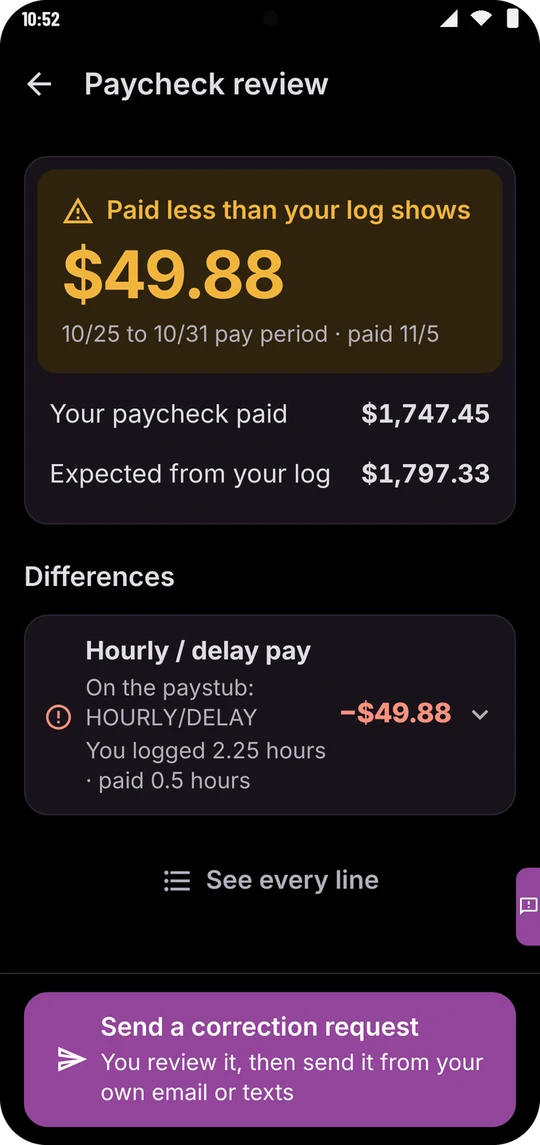
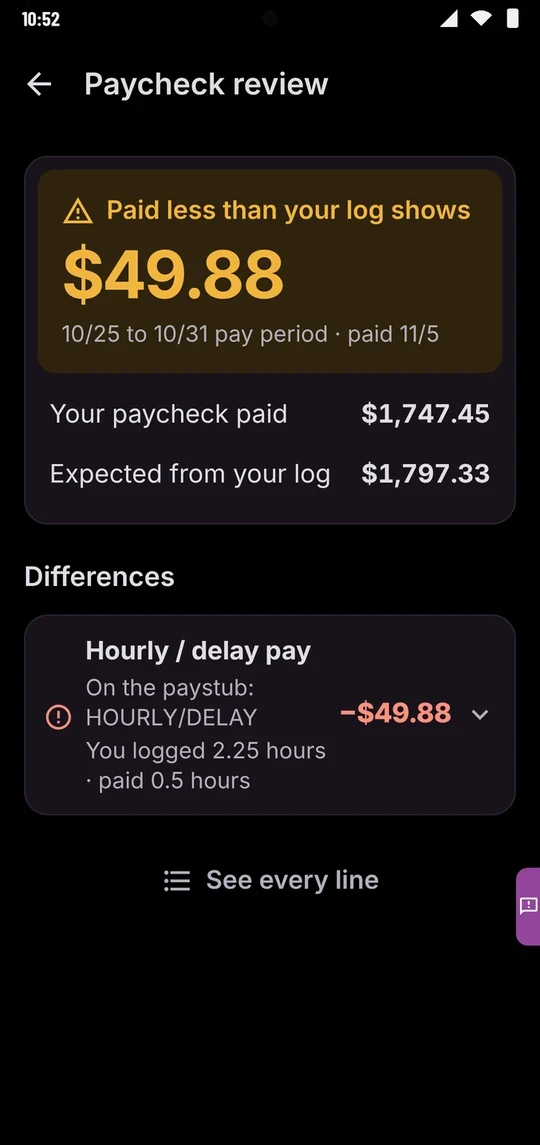
Home page stops showing the payroll note, which is off for launch (outside audit OA-002)
- The third app picture ("A polite note, ready to send") is gone in every language, and its words.
- The two Paycheck review pictures lose the "Send a correction request" bar. That bar is not in the
  app while the note is off (the screen has no bottom bar then), so the pictures now match the app.
- The use case video is held off the page (VIDEO_HELD in tools/home/build.py): it shows the note and
  Copy for payroll. It comes back with a new cut or when the note is turned on.
- llms.txt no longer lists the note to payroll.

Claude-Session: https://claude.ai/code/session_01C3zU6khZT3Zie1J1Kt7Tg1

Changed region(s): [[0.0, 0.8559, 1.0, 1.0], [0.9481, 0.0, 1.0, 0.0306], [0.0, 0.0, 0.0593, 0.0306]]

diff --git a/index.html b/index.html
@@ -2,7 +2,7 @@
 <html lang="en" dir="ltr">
 <head>
 <meta charset="utf-8">
-<meta http-equiv="Content-Security-Policy" content="default-src 'none'; style-src 'self' 'unsafe-inline' https://fonts.googleapis.com; font-src https://fonts.gstatic.com; img-src 'self' data:; media-src 'self'; manifest-src 'self'; script-src 'self'; base-uri 'none'; form-action https://us-central1-trucker-pay-protect.cloudfunctions.net">
+<meta http-equiv="Content-Security-Policy" content="default-src 'none'; style-src 'self' 'unsafe-inline' https://fonts.googleapis.com; font-src https://fonts.gstatic.com; img-src 'self' data:; manifest-src 'self'; script-src 'self'; base-uri 'none'; form-action https://us-central1-trucker-pay-protect.cloudfunctions.net">
 <meta name="viewport" content="width=device-width,initial-scale=1,viewport-fit=cover">
 <title>Trucker Pay Protector: Check every paycheck against your own pay plan</title>
 <meta name="description" content="An Android app that checks each paystub or settlement against your own pay papers. For company drivers and owner-operators. Built by a working long-haul truck driver.">
@@ -85,14 +85,8 @@
 </header>
 
 <main id="main">
-<section class="video" aria-labelledby="video-h"><div class="in">
-  <p class="kicker">See it work</p><h2 id="video-h">Watch one paycheck get checked.</h2>
-  <div class="vframe"><video controls playsinline preload="none" width="1920" height="1080" poster="/assets/video/use-case-en.jpg" aria-labelledby="video-h"><source src="/assets/video/use-case-en.mp4" type="video/mp4"></video><button type="button" class="vsound" hidden>Tap for sound</button></div>
-  <p class="vnote">About 50 seconds, with an AI voice. Data is for display purposes only. Not a real driver. Use the app only when you&#x27;re safely stopped, never while driving.</p>
-  <p class="vnote"><span class="tag">Paid plan</span></p>
-</div></section>
 
-<section id="how"><div class="in">
+<section id="how" class="fade"><div class="in">
   <p class="kicker">How it works</p><h2>Four easy steps.</h2>
   <ol class="steps">
     <li><span class="n" aria-hidden="true">1</span><h3>Add your papers</h3><p>Show the app your pay papers and one recent paystub.</p></li>
@@ -112,10 +106,6 @@
     <figure class="shot">
       <div class="bezel"><img src="/assets/app/why-night.webp" alt="The app&#x27;s Why screen. It shows the math for one pay line and the words from the pay plan." width="540" height="1145" loading="lazy"></div>
       <figcaption><b>Tap &quot;Why?&quot; on a line.</b><span>See the math, and the line on your papers when you add them.</span><span class="tag">Paid plan</span></figcaption>
-    </figure>
-    <figure class="shot">
-      <div class="bezel"><img src="/assets/app/note-night.webp" alt="The app&#x27;s Pay question screen with a note to payroll ready to send." width="540" height="1145" loading="lazy"></div>
-      <figcaption><b>A polite note, ready to send.</b><span>You read it. You send it.</span><span class="tag">Paid plan</span></figcaption>
     </figure>
   </div>
 </div></section>

diff --git a/pa/index.html b/pa/index.html
@@ -107,10 +107,6 @@
       <div class="bezel"><img src="/assets/app/why-night.webp" alt="ਐਪ ਦੀ ਸਕਰੀਨ, ਅੰਗਰੇਜ਼ੀ ਵਿੱਚ: &quot;ਕਿਉਂ?&quot;। ਇੱਕ ਪੇਅ ਲਾਈਨ ਦਾ ਹਿਸਾਬ ਅਤੇ ਪੇਅ ਪਲੈਨ ਦੇ ਸ਼ਬਦ ਦਿਖਾਉਂਦੀ ਹੈ।" width="540" height="1145" loading="lazy"></div>
       <figcaption><b>ਕਿਸੇ ਲਾਈਨ ਤੇ &quot;ਕਿਉਂ?&quot; ਦਬਾਓ।</b><span>ਹਿਸਾਬ ਦੇਖੋ, ਅਤੇ ਕਾਗਜ਼ ਪਾਉਣ ਤੇ ਆਪਣੇ ਕਾਗਜ਼ਾਂ ਦੀ ਲਾਈਨ ਵੀ।</span><span class="tag">ਸਬਸਕ੍ਰਿਪਸ਼ਨ ਨਾਲ</span></figcaption>
     </figure>
-    <figure class="shot">
-      <div class="bezel"><img src="/assets/app/note-night.webp" alt="ਐਪ ਦੀ ਸਕਰੀਨ, ਅੰਗਰੇਜ਼ੀ ਵਿੱਚ: ਪੇਰੋਲ ਲਈ ਇੱਕ ਨੋਟ, ਭੇਜਣ ਲਈ ਤਿਆਰ।" width="540" height="1145" loading="lazy"></div>
-      <figcaption><b>ਨਿਮਰ ਨੋਟ, ਭੇਜਣ ਲਈ ਤਿਆਰ।</b><span>ਤੁਸੀਂ ਪੜ੍ਹਦੇ ਹੋ। ਤੁਸੀਂ ਭੇਜਦੇ ਹੋ।</span><span class="tag">ਸਬਸਕ੍ਰਿਪਸ਼ਨ ਨਾਲ</span></figcaption>
-    </figure>
   </div>
 </div></section>
 

diff --git a/ru/index.html b/ru/index.html
@@ -107,10 +107,6 @@
       <div class="bezel"><img src="/assets/app/why-night.webp" alt="Экран приложения, на английском: «Почему?». Показывает расчёт по одной строке оплаты и слова из плана оплаты." width="540" height="1145" loading="lazy"></div>
       <figcaption><b>Нажмите «Почему?» на строке.</b><span>Увидите расчёт и строку из ваших документов, когда вы их добавите.</span><span class="tag">По подписке</span></figcaption>
     </figure>
-    <figure class="shot">
-      <div class="bezel"><img src="/assets/app/note-night.webp" alt="Экран приложения, на английском: записка в бухгалтерию, готовая к отправке." width="540" height="1145" loading="lazy"></div>
-      <figcaption><b>Вежливая записка, готовая к отправке.</b><span>Вы читаете. Вы отправляете.</span><span class="tag">По подписке</span></figcaption>
-    </figure>
   </div>
 </div></section>
 

diff --git a/ar/index.html b/ar/index.html
@@ -107,10 +107,6 @@
       <div class="bezel"><img src="/assets/app/why-night.webp" alt="شاشة التطبيق بالإنجليزية: «لماذا؟». تعرض حساب سطر أجر واحد وكلمات خطة الأجر." width="540" height="1145" loading="lazy"></div>
       <figcaption><b>اضغط «لماذا؟» على سطر.</b><span>شاهد الحساب، والسطر في أوراقك عندما تضيفها.</span><span class="tag">ضمن الاشتراك</span></figcaption>
     </figure>
-    <figure class="shot">
-      <div class="bezel"><img src="/assets/app/note-night.webp" alt="شاشة التطبيق بالإنجليزية: رسالة إلى قسم الرواتب جاهزة للإرسال." width="540" height="1145" loading="lazy"></div>
-      <figcaption><b>رسالة مهذبة جاهزة للإرسال.</b><span>أنت تقرؤها. أنت ترسلها.</span><span class="tag">ضمن الاشتراك</span></figcaption>
-    </figure>
   </div>
 </div></section>
 

diff --git a/es/index.html b/es/index.html
@@ -107,10 +107,6 @@
       <div class="bezel"><img src="/assets/app/why-night.webp" alt="Pantalla de la app, en inglés: &quot;¿Por qué?&quot;. Muestra la cuenta de una línea de pago y las palabras del plan de pago." width="540" height="1145" loading="lazy"></div>
       <figcaption><b>Toque &quot;¿Por qué?&quot; en una línea.</b><span>Vea la cuenta, y la línea en sus papeles cuando los agregue.</span><span class="tag">Con suscripción</span></figcaption>
     </figure>
-    <figure class="shot">
-      <div class="bezel"><img src="/assets/app/note-night.webp" alt="Pantalla de la app, en inglés: una nota para nómina, lista para enviar." width="540" height="1145" loading="lazy"></div>
-      <figcaption><b>Una nota cortés, lista para enviar.</b><span>Usted la lee. Usted la envía.</span><span class="tag">Con suscripción</span></figcaption>
-    </figure>
   </div>
 </div></section>
 

diff --git a/tools/home/template.html b/tools/home/template.html
@@ -98,10 +98,6 @@
       <div class="bezel"><img src="/assets/app/why-night.webp" alt="{{shot2_alt}}" width="540" height="1145" loading="lazy"></div>
       <figcaption><b>{{shot2_h}}</b><span>{{shot2_p}}</span><span class="tag">{{paid_tag}}</span></figcaption>
     </figure>
-    <figure class="shot">
-      <div class="bezel"><img src="/assets/app/note-night.webp" alt="{{shot3_alt}}" width="540" height="1145" loading="lazy"></div>
-      <figcaption><b>{{shot3_h}}</b><span>{{shot3_p}}</span><span class="tag">{{paid_tag}}</span></figcaption>
-    </figure>
   </div>
 </div></section>
 

diff --git a/tools/home/build.py b/tools/home/build.py
@@ -42,8 +42,16 @@ PLAY_ICON = ('<svg aria-hidden="true" width="26" height="28" viewBox="0 0 26 28"
              '<path d="M19 11l5 3-5 3-4-3z" fill="#FBBC04"/></svg>')
 
 
+# Videos kept off the page for now. The English video (11-28) shows the payroll note ("Ask a fair question. The app
+# drafts the note.") and "Copy for payroll", which are off for launch (the app's PAYROLL_NOTE_ON). It comes back when a
+# new cut without them exists, or when the note is turned on (outside audit OA-002, founder yes 2026-11-28 09:23:20Z).
+VIDEO_HELD = {"en"}
+
+
 def video_section(code, w, e):
-    """The "See it work" part, or nothing when this language has no video file yet."""
+    """The "See it work" part, or nothing when this language has no video file yet or its video is held."""
+    if code in VIDEO_HELD:
+        return ""
     mp4 = ROOT / "assets" / "video" / f"use-case-{code}.mp4"
     poster = ROOT / "assets" / "video" / f"use-case-{code}.jpg"
     if not (mp4.exists() and poster.exists()):
